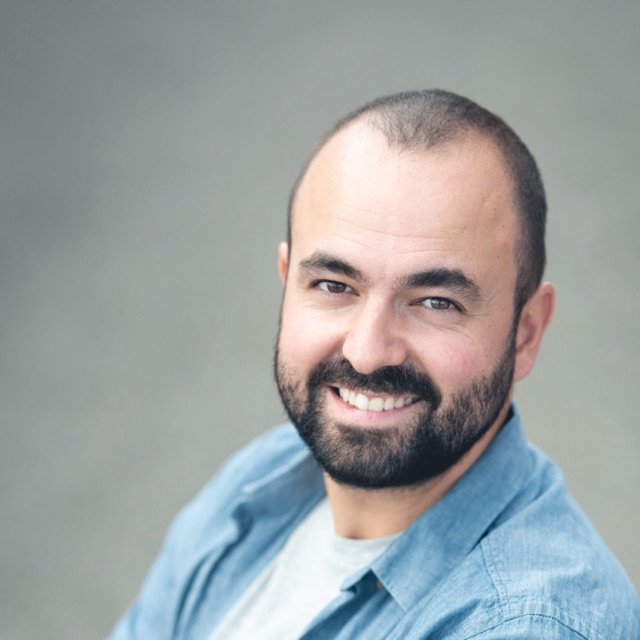
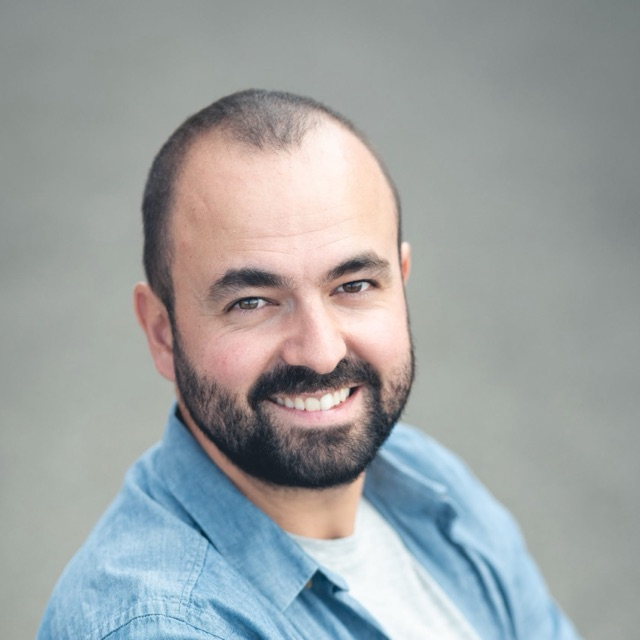
feat: portrait recentered, mirrored, moved left of the title
Claude-Session: https://claude.ai/code/session_01XTktCUkozJUS5hpCrJqd3U

diff --git a/index.html b/index.html
@@ -15,6 +15,7 @@
   <main>
     <header class="rise" style="--d:0">
       <div class="header-grid">
+        <img class="portrait" src="portrait.jpg" alt="Alexandre Grais" width="640" height="640">
         <div>
           <p class="kicker">alexgrais<span class="accent">.com</span></p>
           <h1>Alexandre Grais</h1>
@@ -24,7 +25,6 @@
           <p class="tagline">Co-founder of <a href="https://kapptivate.com">Kapptivate</a>. Before that, Orange&nbsp;Money.<br>
           I build whatever curiosity demands.</p>
         </div>
-        <img class="portrait" src="portrait.jpg" alt="Alexandre Grais" width="640" height="640">
       </div>
     </header>
 

diff --git a/style.css b/style.css
@@ -61,9 +61,8 @@ main {
 /* ---- header ---- */
 .header-grid {
   display: flex;
-  justify-content: space-between;
   align-items: flex-start;
-  gap: 2rem;
+  gap: 2.25rem;
 }
 .portrait {
   width: 8.5rem;
@@ -75,7 +74,7 @@ main {
   box-shadow: 0 0 0 3px var(--paper), 0 0 0 5.5px var(--pop);
 }
 @media (max-width: 560px) {
-  .header-grid { flex-direction: column-reverse; gap: 1.25rem; }
+  .header-grid { flex-direction: column; gap: 1.25rem; }
   .portrait { width: 7rem; height: 7rem; margin-top: 0; }
 }
 
